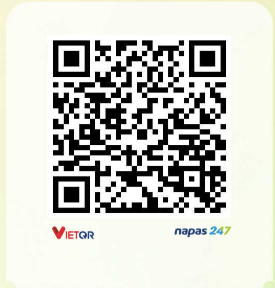
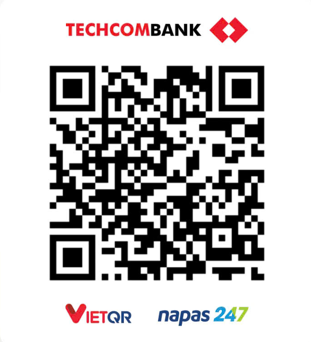
Update wedding date and related information across multiple files

diff --git a/index.html b/index.html
@@ -90,7 +90,7 @@
                         <p class="guest-name" data-i18n="guestName">Quý Khách</p>
                         <p class="to-wedding" data-i18n="invitation.toOurWedding">đến dự hôn lễ của</p>
                         <h2 class="letter-names" data-i18n="names.coupleNames">Công Hậu &amp; Ngọc Thi</h2>
-                        <p class="letter-date" data-i18n="invitation.letterDate">30.11.2025</p>
+                        <p class="letter-date" data-i18n="invitation.letterDate">29.11.2025</p>
                     </div>
                 </div>
             </div>
@@ -130,7 +130,7 @@
                         <div class="wedding-info-brief">
                             <div class="info-item">
                                 <i class="far fa-calendar-alt"></i>
-                                <span data-i18n="invitation.weddingDate">Chủ Nhật, 30 Tháng 11, 2025</span>
+                                <span data-i18n="invitation.weddingDate">Thứ Bảy, 29 Tháng 11, 2025</span>
                             </div>
                             <div class="info-item">
                                 <i class="far fa-clock"></i>
@@ -221,7 +221,7 @@
                 </h1>
                 <div class="wedding-date">
                     <i class="far fa-calendar-heart"></i>
-                    <p data-i18n="hero.date">30.11.2025</p>
+                    <p data-i18n="hero.date">29.11.2025</p>
                 </div>
             </div>
         </section>
@@ -304,7 +304,7 @@
                     </div>
                     <div class="timeline-item right animate-on-scroll">
                         <div class="timeline-content">
-                            <div class="timeline-date" data-i18n="timeline.wedding.date">30.11.2025</div>
+                            <div class="timeline-date" data-i18n="timeline.wedding.date">29.11.2025</div>
                             <h3 data-i18n="timeline.wedding.title">Đám cưới</h3>
                             <p data-i18n="timeline.wedding.description">Ngày chúng tôi chính thức nên duyên vợ chồng.</p>
                         </div>
@@ -417,15 +417,15 @@
                 <div class="gift-container">
                     <div class="bank-card animate-on-scroll">
                         <div class="bank-details">
-                            <p class="bank-name"><span style="display: none;" data-i18n="gift.bank"></span> <strong data-i18n="gift.bankNameBride">Vietcombank</strong></p>
-                            <p class="bank-account"><strong data-i18n="gift.accountBride">103 6060 991</strong></p>
-                            <p class="bank-owner"><strong data-i18n="gift.accountHolderBride">PHAN CONG  HAU</strong></p>
+                            <p class="bank-name"><span style="display: none;" data-i18n="gift.bank"></span> <strong data-i18n="gift.bankNameBride">Techcombank</strong></p>
+                            <p class="bank-account"><strong data-i18n="gift.accountBride">4863 2626 26</strong></p>
+                            <p class="bank-owner"><strong data-i18n="gift.accountHolderBride">NGUYEN NGOC THI</strong></p>
                         </div>
                         <div class="qr-code">
                             <img src="./assets/qr-bride.png" alt="QR Code" />
                             <p class="qr-label" data-i18n="gift.qrLabel">Quét mã để gửi quà</p>
                         </div>
-                        <button class="copy-btn" onclick="copyBankInfo('1036060991')">
+                        <button class="copy-btn" onclick="copyBankInfo('4863262626')">
                             <i class="fas fa-copy"></i> <span data-i18n="gift.copyButton">Sao chép</span>
                         </button>
                     </div>

diff --git a/assets/language.js b/assets/language.js
@@ -15,7 +15,7 @@ const translations = {
         },
         hero: {
             wedding: "Đám Cưới",
-            date: "30 Tháng 11, 2025"
+            date: "29 Tháng 11, 2025"
         },
         countdown: {
             title: "Đếm Ngược Đến Ngày Trọng Đại",
@@ -62,9 +62,9 @@ const translations = {
         venue: {
             title: "Địa Điểm Tổ Chức",
             restaurant: "",
-            venueName: "TƯ GIA NHÀ TRAI",
-            address: "Ấp Hòa Quý, Xã Hòa Khánh, Huyện Cái Bè, Tỉnh Tiền Giang",
-            time: "11:00 - 30/11/2025",
+            venueName: "TƯ GIA NHÀ GÁI",
+            address: "Ấp 4, Xã Mỹ Thành Bắc, Huyện Cai Lậy, Tỉnh Tiền Giang",
+            time: "15:00 & 19:00 - 30/11/2025",
             viewMap: "Xem Bản Đồ"
         },
         rsvp: {
@@ -100,10 +100,10 @@ const translations = {
             bank: "Ngân hàng:",
             bankNameGroom: "VPBank",
             accountGroom: "186735439",
-            accountHolderGroom: "PHAN CONG HAU",
-            bankNameBride: "Vietcombank",
-            accountBride: "1036060991",
-            accountHolderBride: "PHAN CONG HAU",
+            accountHolderGroom: "NGUYEN NGOC THI",
+            bankNameBride: "Techcombank",
+            accountBride: "4863262626",
+            accountHolderBride: "NGUYEN NGOC THI",
             copyButton: "Sao chép STK",
             qrLabel: "Quét mã QR để chuyển khoản",
             note: "Sự hiện diện của quý khách là món quà ý nghĩa nhất với chúng tôi!"
@@ -118,11 +118,11 @@ const translations = {
             respectfullyInvite2: "Trân trọng kính mời Quý Khách đến dự hôn lễ của",
             toOurWedding: "đến hôn lễ của",
             clickHint: "Nhấp vào phong thư để mở thiệp mời",
-            letterDate: "30.11.2025",
+            letterDate: "29.11.2025",
             cardTitle: "THIỆP MỜI ĐÁM CƯỚI",
             infoTitle: "THÔNG TIN ĐÁM CƯỚI",
-            weddingDate: "Chủ Nhật, 30 Tháng 11, 2025",
-            weddingTime: "11:00 Giờ",
+            weddingDate: "Thứ Bảy, 29 Tháng 11, 2025",
+            weddingTime: "15:00 & 19:00",
             quote: '"Hạnh phúc không phải là điểm đến, mà là hành trình \n Và chúng tôi đã tìm thấy bạn đồng hành"',
             groomFamily: "Gia Đình Chú Rể",
             groomFather: "Ông: Phan Văn Ri",
@@ -198,7 +198,7 @@ const translations = {
         venue: {
             title: "Venue",
             restaurant: "",
-            venueName: "TƯ GIA NHÀ TRAI",
+            venueName: "TƯ GIA NHÀ GÁI",
             address: "Ấp Hòa Quý, Xã Hòa Khánh, Huyện Cái Bè, Tỉnh Tiền Giang",
             viewMap: "View Map"
         },
@@ -233,12 +233,12 @@ const translations = {
             groom: "Groom",
             bride: "Bride",
             bank: "Bank:",
-            bankNameGroom: "VPBank",
-            accountGroom: "186735439",
-            accountHolderGroom: "PHAN CONG HAU",
-            bankNameBride: "Vietcombank",
-            accountBride: "1036060991",
-            accountHolderBride: "PHAN CONG HAU",
+            bankNameGroom: "Techcombank",
+            accountGroom: "4863262626",
+            accountHolderGroom: "NGUYEN NGOC THI",
+            bankNameBride: "Techcombank",
+            accountBride: "4863262626",
+            accountHolderBride: "NGUYEN NGOC THI",
             copyButton: "Copy Account",
             qrLabel: "Scan QR code to transfer",
             note: "Your presence is the most meaningful gift to us!"

diff --git a/assets/rsvp.js b/assets/rsvp.js
@@ -43,7 +43,7 @@ function doPost(e) {
  */
 
 // IMPORTANT: Replace this with your Google Apps Script Web App URL
-const GOOGLE_SCRIPT_URL = 'https://script.google.com/macros/s/AKfycbypq9e7xYTbjhZuGrzn4XqTgLqnf52g6GthY2tzXZGf7x0unVeLY8WOJqoJ6gU82pN0/exec';
+const GOOGLE_SCRIPT_URL = 'https://script.google.com/macros/s/AKfycbwi1XZFhAshEBICsOtO0YtxULg6uHQRnVFv6j8XK3uXe5k8BOaWjF2oGUkNaUokTWc/exec';
 
 // Form elements
 let form, submitBtn, formStatus;

diff --git a/assets/countdown.js b/assets/countdown.js
@@ -1,8 +1,8 @@
 // Countdown Timer
 // Set your wedding date here (YYYY, MM-1, DD, HH, MM, SS)
 // Note: Month is 0-indexed (0 = January, 11 = December)
-// November 29, 2025 at 11:00 AM
-const weddingDate = new Date(2025, 10, 30, 11, 0, 0).getTime();
+// November 29, 2025 at 15:00 & 19:00
+const weddingDate = new Date(2025, 10, 29, 15, 0, 0).getTime();
 
 function updateCountdown() {
     const now = new Date().getTime();
